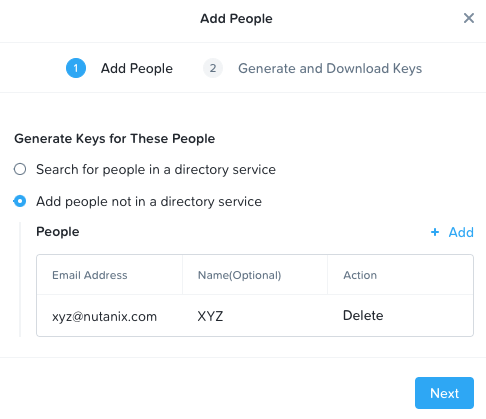
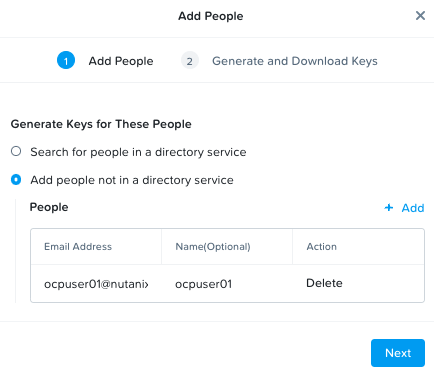
cleaning up file extensions and links

diff --git a/sidebars.js b/sidebars.js
@@ -18,12 +18,12 @@ module.exports = {
                 label: 'Nutanix Cloud Manager (NCM) Installation',
                 items: ['ocp_ntnx_hci/import_bp',
                         'ocp_ntnx_hci/prov_vm',
-                        'ocp_ntnx_hci/ocp_vms',
-                        'ocp_ntnx_hci/ocp_scale_out_in'],
+                        'ocp_ntnx_hci/ocp_vms'],
               },
               "ocp_assisted_install/ocp_assisted_install",
             ]
     },
+    'ocp_access/ocp_access',
     {
       type: 'category',
       label: 'Nutanix Storage CSI',
@@ -43,7 +43,8 @@ module.exports = {
       type: 'category',
       label: 'OCP Optional Labs',
       items: [
-              'optional_labs/ocp_idp'],
+              'optional_labs/ocp_idp',
+              'ocp_ntnx_hci/ocp_scale_out_in'],
     },
     // {
     //   type: 'category',

diff --git a/docs/ocp_access/ocp_access.md b/docs/ocp_access/ocp_access.md
@@ -1,0 +1,103 @@
+---
+title: "OCP Command Access"
+lastupdate: git
+lastupdateauthor: git
+---
+
+import Tabs from '@theme/Tabs';
+import TabItem from '@theme/TabItem';
+
+:::danger
+
+Do not execute any commands in this section. Doing so will produce unintended results.
+
+Do not perform any steps in this section.
+
+This section is for informational purpose only. 
+
+:::
+
+Before you proceed to the workload section of this lab, it is important for you know that there are two ways to interact with OCP cluster. 
+
+1. `OC` command line and
+2. `Import YAML` functionality in the Openshift Web UI 
+
+You are free to choose whichever you like. 
+
+## OC command line
+
+We have only documented oc command line in this lab guide 
+
+You export kubeconfig file to the environment of your LinuxTools VM file and run ``oc`` commands
+
+Find an example command below:
+
+```mdx-code-block
+<Tabs>
+<TabItem value="Creating a manifest, edit and apply through oc command">
+```
+``` bash title="Create a template manifest file"
+cat << EOF > csi_secret.yaml
+apiVersion: v1
+kind: Secret
+metadata:
+  name: ntnx-secret
+  namespace: openshift-cluster-csi-drivers
+stringData:
+  key: <Prism Element IP>:9440:<Prism Element UserName>:<Prism Element Password>    # << change this
+  # example: 
+  # key: 10.38.2.71:9440:admin:password
+EOF
+```
+```bash title="Edit your manifest file with desired values"
+vi csi_secret.yaml
+```
+```bash title="Apply your edited manifest file"
+oc apply -f csi_secret.yaml
+```
+```mdx-code-block
+</TabItem>
+<TabItem value="Applying manifest directly through oc command">
+``` 
+``` bash title="Apply your pre-edited manifest file"
+cat << EOF | oc apply -f - 
+apiVersion: v1
+kind: Secret
+metadata:
+  name: ntnx-secret
+  namespace: openshift-cluster-csi-drivers
+stringData:
+  key: 10.38.2.71:9440:admin:password
+EOF
+```
+```mdx-code-block
+</TabItem>
+</Tabs>
+```
+
+## Import YAML Line Functionality
+
+1. To access this functionality, logon to your OCP cluster web UI
+
+   ```url
+   https://console-openshift-console.apps.ocpuserXX.ntnxlab.local/k8s/all-namespaces/import
+   ```
+
+2. Login as kubeadmin or a IDP user
+   
+3. Click on the ``+`` button on the top right-hand corner of the screen
+4. Paste your template file
+5. Edit contents of manifest directly in the editor on the Web UI
+   
+   ![](images/import_yaml.png)
+
+6. Click on **Create**
+
+7. If the manifest is clean and void of syntax errors, you will get confirmation as shown below
+   
+   ![](images/secret_create_confirm.png)
+
+
+
+
+

diff --git a/docs/optional_labs/ocp_image_registry.md b/docs/optional_labs/ocp_image_registry.md
@@ -49,7 +49,7 @@ In this section we will provision Nutanix Objects based S3 storage to serve as a
 
 5.  Select **Add people not in a directory service**
 
-6.  Enter your email and name
+6.  Enter a email (ocpuserXX@nutanix.com) and name (ocpuserXX)
 
     ![](ocp_image_registry_images/objects_access_key.png)
 
@@ -77,11 +77,11 @@ We will create a bucket for backup destination
 
 3.  Click on **Create Bucket**
 
-4.  Enter *Initials*-ocp-registry as the bucket name
+4.  Enter **ocpuserXX-registry** (E.g. ocpuser01-registry) as the bucket name
 
 5.  Click on **Create**
 
-6.  In the list of buckets, click on the *Initials*-ocp-registry bucket
+6.  In the list of buckets, click on the **ocpuserXX-registry** (E.g. ocpuser01-registry) bucket
 
 7.  Click on **User Access** menu and **Edit User Access**
 
@@ -250,7 +250,7 @@ In this section we will add nutanix objects store's DNS records for lookup by OC
     {"op": "remove", "path": "/spec/storage" },
     {"op": "add", "path": "/spec/storage", "value":
     {"s3":
-    {"bucket": "ocpXX-bucket-name",                        ### <<< REMEMBER TO USE YOUR BUCKET NAME
+    {"bucket": "ocpuserXX-bucket-name",                        ### <<< REMEMBER TO USE YOUR BUCKET NAME
     "regionEndpoint": "https://ntnx-objects.ntnxlab.local",
     "encrypt": false, 
     "region": "us-east-1"}}}]'
@@ -266,7 +266,7 @@ In this section we will add nutanix objects store's DNS records for lookup by OC
     {"op": "remove", "path": "/spec/storage" },
     {"op": "add", "path": "/spec/storage", "value":
     {"s3":
-    {"bucket": "ocp01-ocp-registry",                       ### <<< REMEMBER TO USE YOUR BUCKET NAME
+    {"bucket": "ocpuser01-ocp-registry",                       ### <<< REMEMBER TO USE YOUR BUCKET NAME
     "regionEndpoint": "https://ntnx-objects.ntnxlab.local",
     "encrypt": false, 
     "region": "us-east-1"}}}]'

diff --git a/docs/ocp_ipi_install/ocp_ipi_install_cleanup.md b/docs/ocp_ipi_install/ocp_ipi_install_cleanup.md
@@ -140,3 +140,5 @@ Run through the following if you would like to delete the OCP cluster. This step
 IPI installation method is simple and consistent to deploy as after the pre-rquisites are setup once. 
 
 Customers can easily deploy as many OCP clusters on Nutanix HCI. 
+
+<!-- Now that you have finished IPI install, you can move on to the [OCP Command Access](/docs/ocp_access/ocp_access.md) section and then on to workloads section. -->

diff --git a/docs/ocp_topology/ocp_setup.md b/docs/ocp_topology/ocp_setup.md
@@ -40,8 +40,6 @@ We have used OCP Assited Installer clusters implementation to install OCP softwa
 
 > You will need a Red Hat Console portal account for this
 
-See [OCP Assisted Install Steps](../ocp_assisted_install/ocp_assisted_install.mdx) for details. The number of worker nodes will vary in this procedure. 
-
 ## OCP Installation
 
 The following steps include OCP installation:
